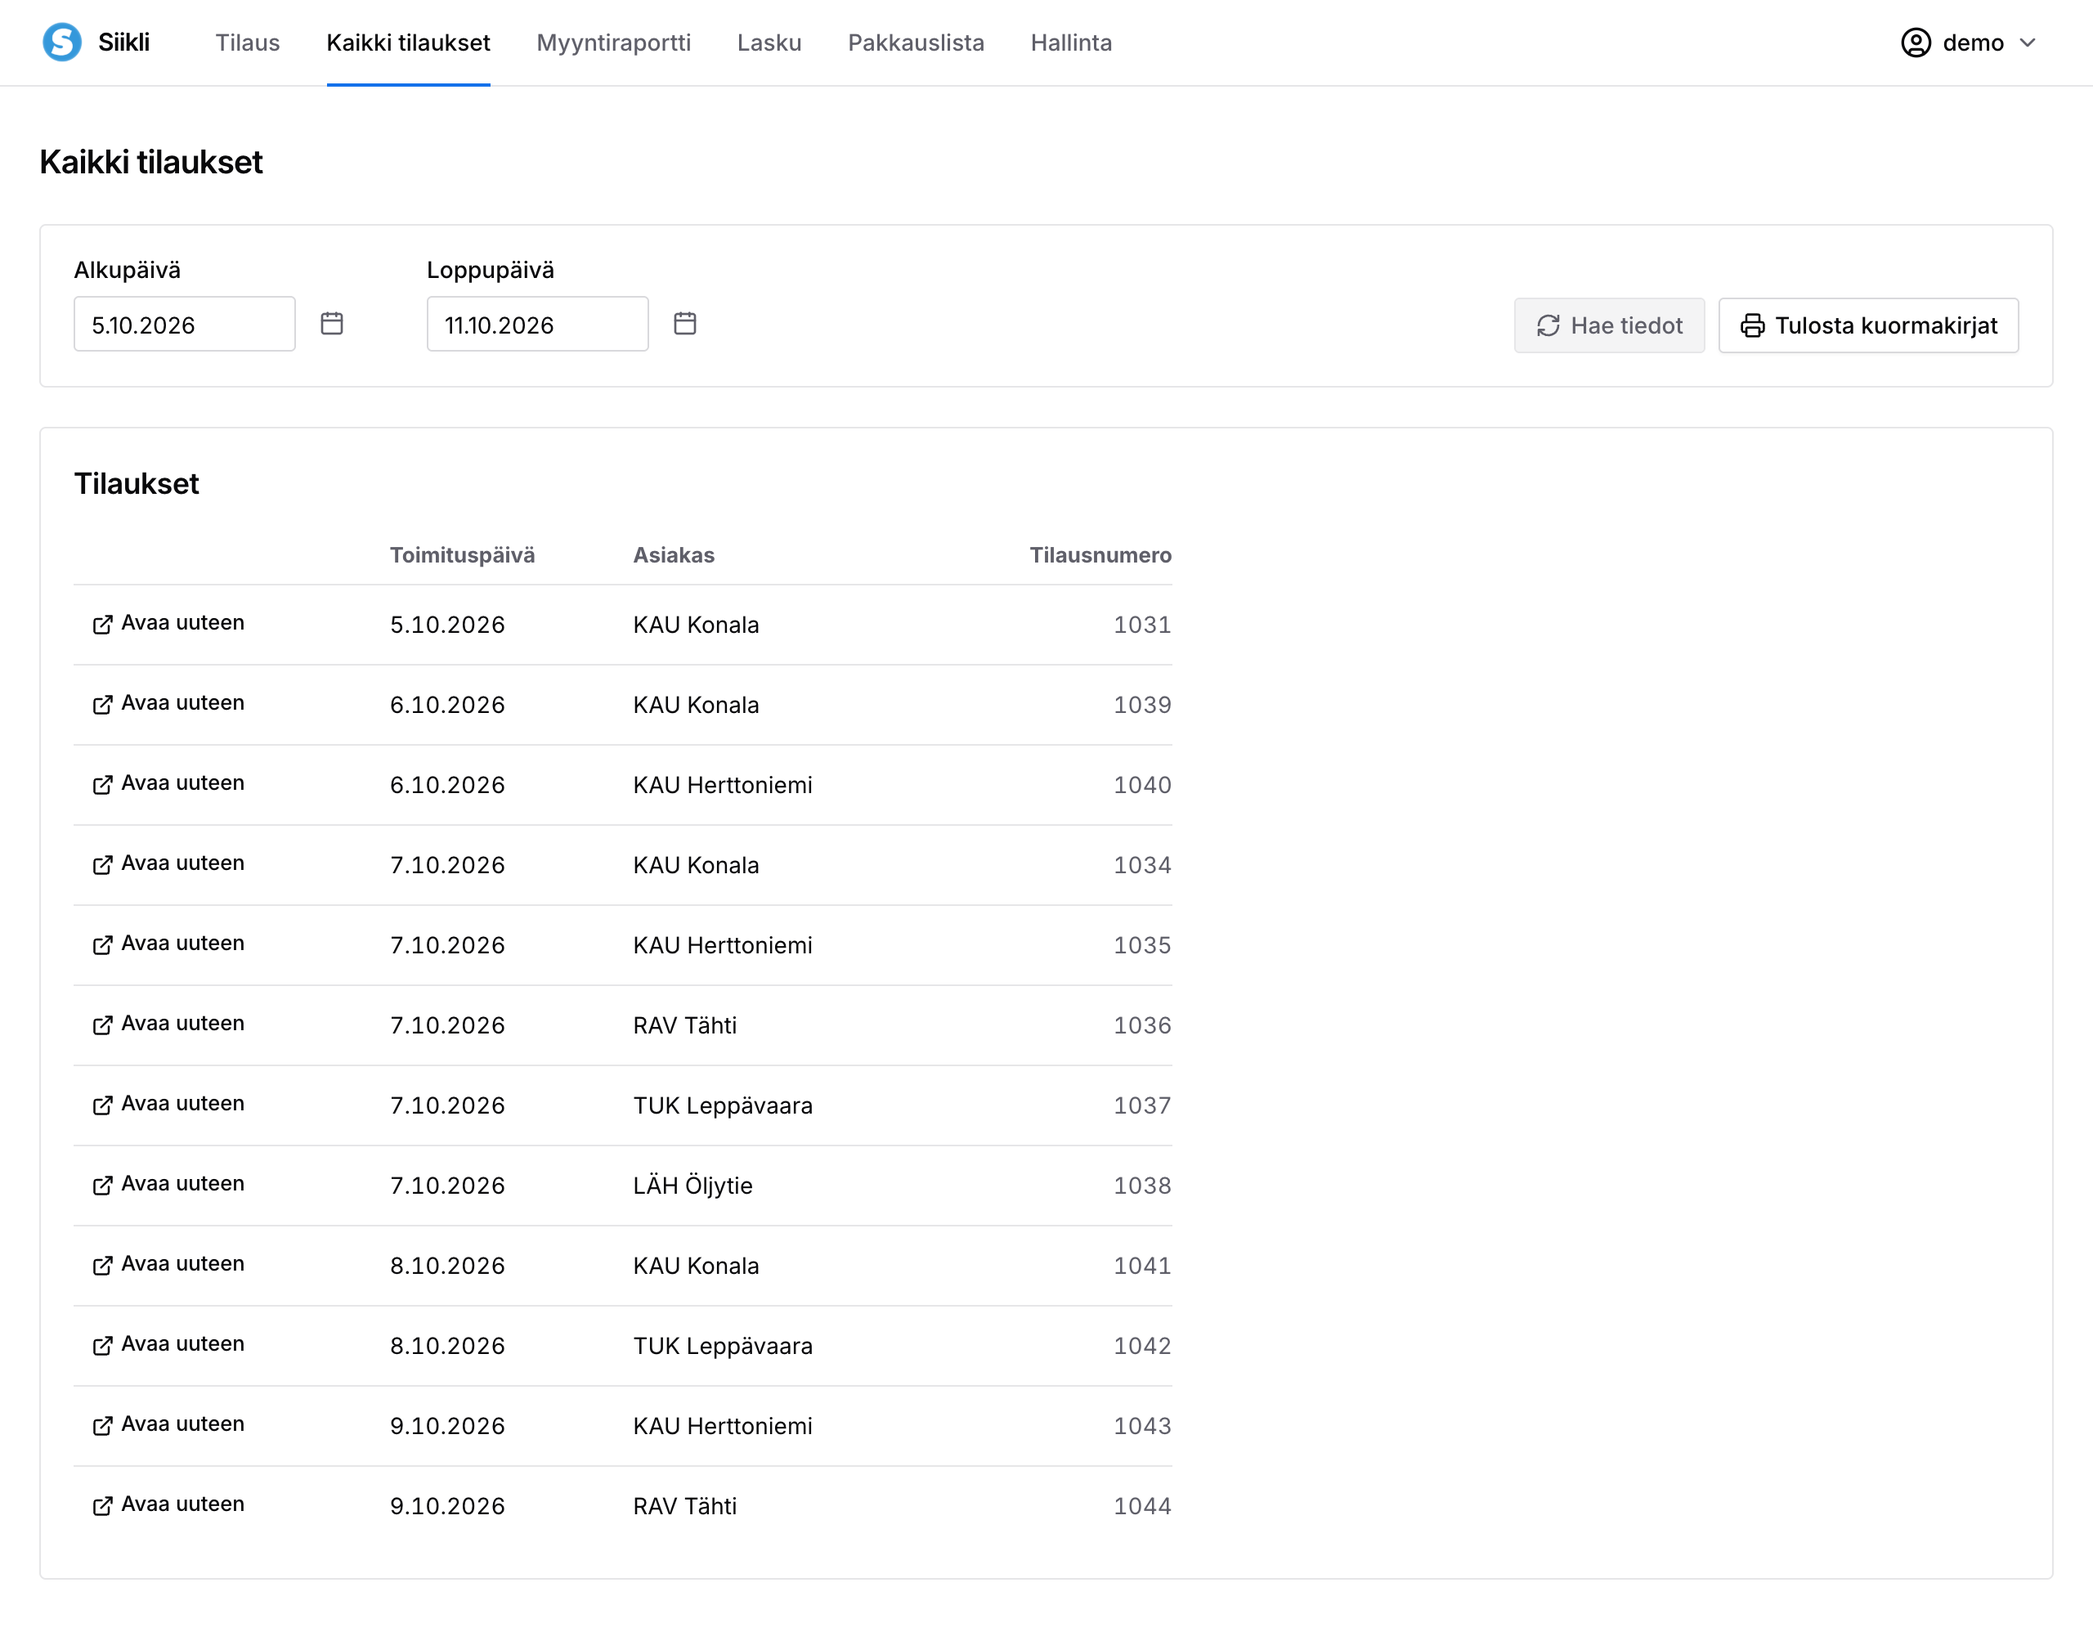
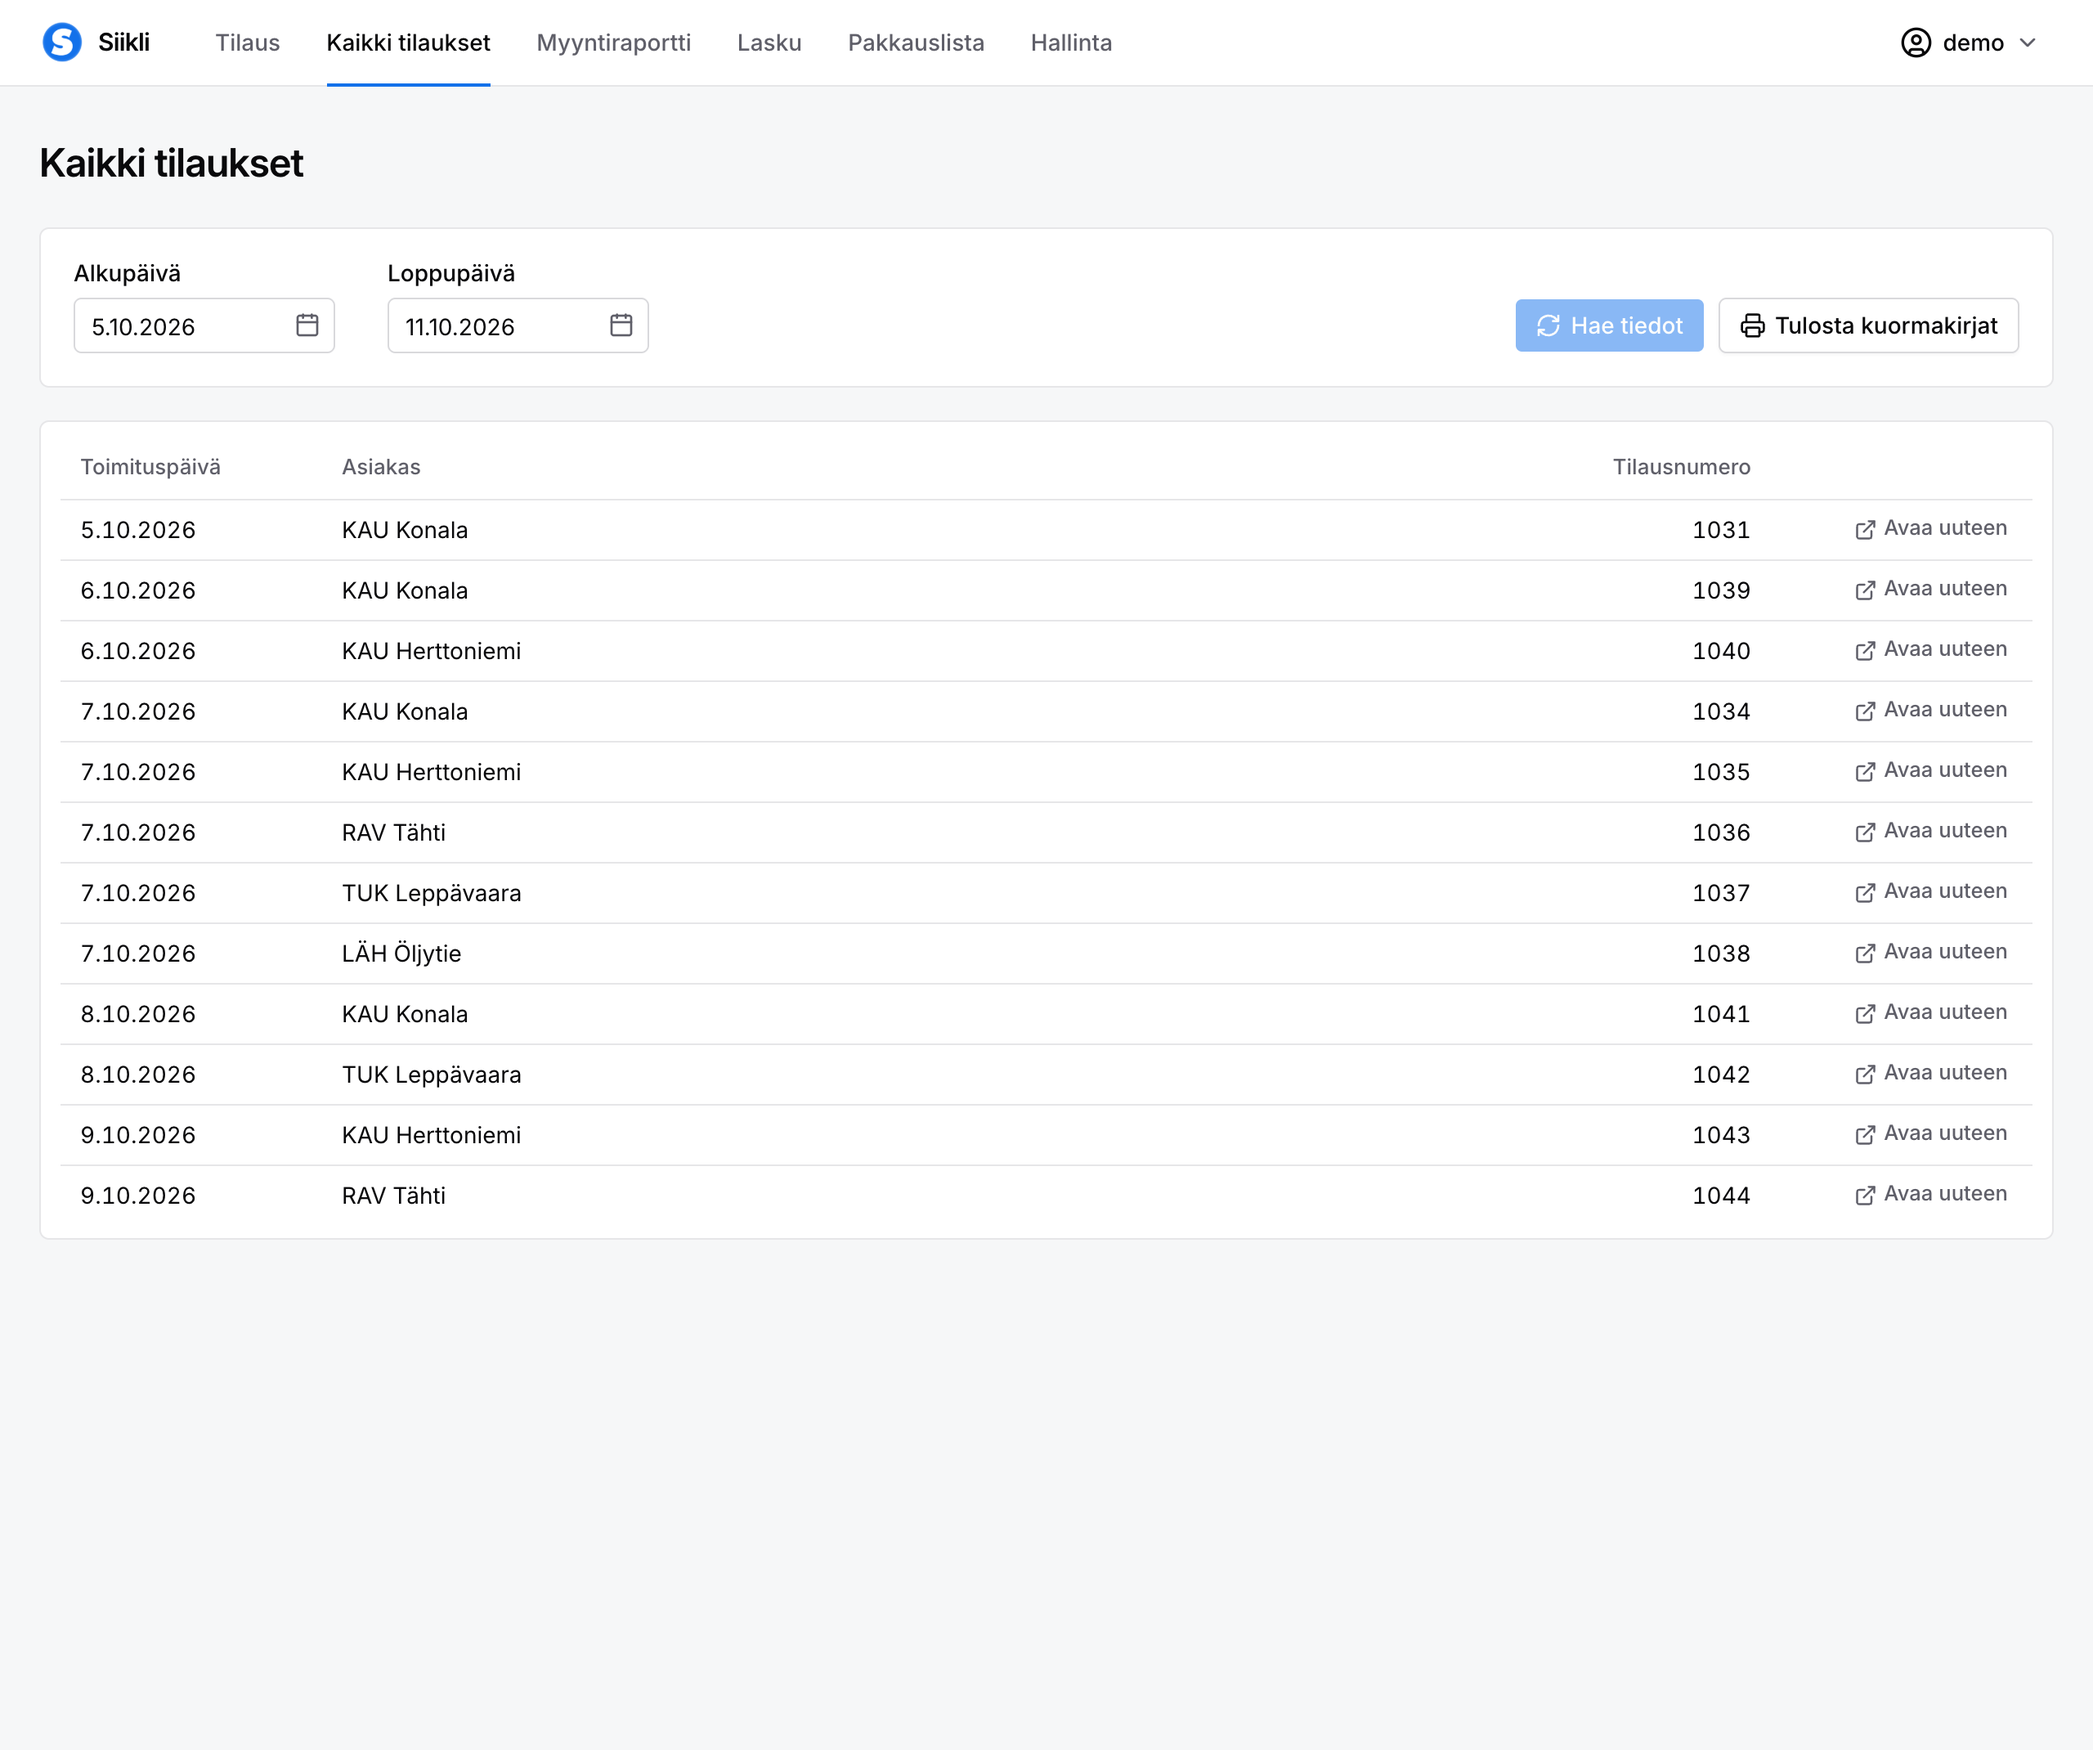
Restyle the page in the app's design A, with new screenshots
The app's look changed on 2026-11-11 (design A): a light grey page
(#f6f7f8), so the white cards and the white toolbar read as surfaces;
corners of 6 px on cards and 5 px on buttons; the logo in the azure
#1371ea. The page follows it: the grey page, the footer white as the top
bar, 5 px corners on the buttons and labels, the new logo and its glow.

The screenshots are retaken from the React release's jar with the demo
data; the order screen now shows each row's total and the order's kilos,
packages and sum, which its caption and description say. The sharing
image is redrawn from the English page.

diff --git a/style.css b/style.css
@@ -1,8 +1,9 @@
-/* The look of the Siikli app itself (since 2026-11-10): Siikli's azure,
-   #1371ea, for what can be clicked; near-black text and neutral greys; Inter
-   with its optical sizes; a white page whose cards are drawn by a hairline,
-   not by a shadow; sharp corners. The font is served from here, not from
-   Google. */
+/* The look of the Siikli app itself (design A, since 2026-11-11): Siikli's
+   azure, #1371ea, for what can be clicked, and the logo in it; near-black
+   text and neutral greys; Inter with its optical sizes; a light grey page,
+   so the white cards and the white top bar read as surfaces, the cards drawn
+   by a hairline, not by a shadow; corners of 6 px on cards, 5 px on buttons.
+   The font is served from here, not from Google. */
 
 @font-face {
   font-family: "Inter";
@@ -26,10 +27,10 @@
   --primary-dark: #005ed5;   /* a button under the pointer: darker, not paler */
   --primary-tint: #edf6ff;   /* behind icons and the notes */
   --glow: rgba(19, 113, 234, 0.12);
-  --bg: #ffffff;
+  --bg: #f6f7f8;             /* the app's page: oklch(0.975 0.0025 264) */
   --surface: #ffffff;
   --window-bar: #f4f4f5;
-  --footer: #fafafa;
+  --footer: #ffffff;         /* white, as the top bar */
   --text: #09090b;           /* near-black and neutral greys, as in the app */
   --muted: #5f5f69;
   --line: #e6e6e8;           /* the app's hairline */
@@ -37,8 +38,9 @@
   --on-primary-muted: rgba(255, 255, 255, 0.85);
   --radius: 6px;
   --radius-large: 8px;
+  --radius-control: 5px;     /* buttons, the language switch, small labels */
   /* A card's edge is a hairline (the first shadow), with barely a shadow
-     under it: crisp on the white page, not floating in a haze */
+     under it: crisp on the grey page, not floating in a haze */
   --shadow: 0 0 0 1px var(--line), 0 1px 2px rgba(9, 9, 11, 0.04);
   --shadow-raised: 0 0 0 1px var(--line), 0 2px 4px rgba(9, 9, 11, 0.04), 0 12px 32px rgba(9, 9, 11, 0.08);
   --shadow-hero: 0 0 0 1px var(--line), 0 32px 72px -24px rgba(19, 113, 234, 0.28);
@@ -92,7 +94,7 @@ a { color: var(--primary); }
   font-weight: 500;
   text-decoration: none;
   padding: 8px 14px;
-  border-radius: 4px;
+  border-radius: var(--radius-control);
   transition: background-color 0.2s, color 0.2s;
 }
 .sections a:hover,
@@ -106,7 +108,7 @@ a { color: var(--primary); }
 .get-started {
   margin-left: 12px;
   padding: 7px 16px;
-  border-radius: 4px;
+  border-radius: var(--radius-control);
   background: var(--primary);
   color: var(--on-primary);
   font-size: 14px;
@@ -124,7 +126,7 @@ a { color: var(--primary); }
   flex-shrink: 0;
   margin-left: 12px;
   border: 1px solid var(--line);
-  border-radius: 4px;
+  border-radius: var(--radius-control);
   overflow: hidden;
 }
 .lang a {
@@ -166,7 +168,7 @@ a { color: var(--primary); }
 .mark {
   display: block;
   margin: 0 auto 24px;
-  filter: drop-shadow(0 6px 14px rgba(33, 150, 243, 0.3));
+  filter: drop-shadow(0 6px 14px rgba(19, 113, 234, 0.3));
 }
 .hero h1 {
   margin: 0 0 16px;
@@ -200,7 +202,7 @@ a { color: var(--primary); }
   gap: 10px;
   min-height: 44px;
   padding: 10px 22px;
-  border-radius: 4px;
+  border-radius: var(--radius-control);
   font-size: 15px;
   font-weight: 600;
   text-decoration: none;
@@ -255,7 +257,7 @@ h2:has(+ .note) { margin-bottom: 20px; }
   width: fit-content;
   margin: 0 auto 44px;
   padding: 4px 12px;
-  border-radius: 4px;
+  border-radius: var(--radius-control);
   background: var(--primary-tint);
   color: var(--primary-dark);
   font-size: 14px;
@@ -315,7 +317,7 @@ h2:has(+ .note) { margin-bottom: 20px; }
 .dots i { width: 10px; height: 10px; border-radius: 50%; background: rgba(0, 0, 0, 0.14); }
 .url {
   padding: 0 40px;
-  border-radius: 4px;
+  border-radius: var(--radius-control);
   background: var(--surface);
   color: var(--muted);
   font-size: 12px;
@@ -397,7 +399,7 @@ h2:has(+ .note) { margin-bottom: 20px; }
   width: fit-content;
   margin-bottom: 20px;
   padding: 4px 12px;
-  border-radius: 4px;
+  border-radius: var(--radius-control);
   background: var(--primary-tint);
   color: var(--primary-dark);
   font-size: 14px;

diff --git a/en/index.html b/en/index.html
@@ -56,9 +56,9 @@
     <figure class="shot hero-shot">
       <a class="window" href="../images/order.png" data-lightbox>
         <span class="window-bar" aria-hidden="true"><span class="dots"><i></i><i></i><i></i></span><span class="url">app.siikli.fi</span></span>
-        <img src="../images/order.png" alt="The order screen: a customer, a delivery date and five products with amounts, package sizes, number of packages and prices." width="1280" height="990">
+        <img src="../images/order.png" alt="The order screen: a customer, a delivery date and five products with amounts, package sizes, number of packages, prices and totals, and the order's kilos, packages and total." width="1280" height="1120">
       </a>
-      <figcaption><b>Tilaus</b> (order): products, amounts, packages and prices for one delivery.</figcaption>
+      <figcaption><b>Tilaus</b> (order): products, amounts, packages, prices and totals for one delivery.</figcaption>
     </figure>
 
     <section id="why">
@@ -90,7 +90,7 @@
         <figure class="shot">
           <a class="window" href="../images/packing-list.png" data-lightbox>
             <span class="window-bar" aria-hidden="true"><span class="dots"><i></i><i></i><i></i></span></span>
-            <img src="../images/packing-list.png" alt="The packing list for one day by product, with packages and kilograms per product and totals by variety." loading="lazy" width="1280" height="1174">
+            <img src="../images/packing-list.png" alt="The packing list for one day by product, with packages and kilograms per product and totals by variety." loading="lazy" width="1280" height="1120">
           </a>
           <figcaption>
             <h3>Packing lists</h3>
@@ -100,7 +100,7 @@
         <figure class="shot">
           <a class="window" href="../images/invoice.png" data-lightbox>
             <span class="window-bar" aria-hidden="true"><span class="dots"><i></i><i></i><i></i></span></span>
-            <img src="../images/invoice.png" alt="An invoice for one customer for October: receiver, payment terms, totals with and without VAT." loading="lazy" width="1280" height="1594">
+            <img src="../images/invoice.png" alt="An invoice for one customer for October: receiver, payment terms, totals with and without VAT." loading="lazy" width="1280" height="1568">
           </a>
           <figcaption>
             <h3>Invoices</h3>

diff --git a/index.html b/index.html
@@ -56,9 +56,9 @@
     <figure class="shot hero-shot">
       <a class="window" href="images/order.png" data-lightbox>
         <span class="window-bar" aria-hidden="true"><span class="dots"><i></i><i></i><i></i></span><span class="url">app.siikli.fi</span></span>
-        <img src="images/order.png" alt="Tilausnäkymä: asiakas, toimituspäivä ja viisi tuotetta määrineen, pakkauskokoineen, pakkausmäärineen ja hintoineen." width="1280" height="990">
+        <img src="images/order.png" alt="Tilausnäkymä: asiakas, toimituspäivä ja viisi tuotetta määrineen, pakkauskokoineen, pakkausmäärineen, hintoineen ja summineen sekä tilauksen kilot, pakkaukset ja summa." width="1280" height="1120">
       </a>
-      <figcaption><b>Tilaus</b>: yhden toimituksen tuotteet, määrät, pakkaukset ja hinnat.</figcaption>
+      <figcaption><b>Tilaus</b>: yhden toimituksen tuotteet, määrät, pakkaukset, hinnat ja summat.</figcaption>
     </figure>
 
     <section id="why">
@@ -88,7 +88,7 @@
         <figure class="shot">
           <a class="window" href="images/packing-list.png" data-lightbox>
             <span class="window-bar" aria-hidden="true"><span class="dots"><i></i><i></i><i></i></span></span>
-            <img src="images/packing-list.png" alt="Yhden päivän tuotekohtainen pakkauslista: pakkaukset ja kilot tuotteittain sekä yhteismäärät lajikkeittain." loading="lazy" width="1280" height="1174">
+            <img src="images/packing-list.png" alt="Yhden päivän tuotekohtainen pakkauslista: pakkaukset ja kilot tuotteittain sekä yhteismäärät lajikkeittain." loading="lazy" width="1280" height="1120">
           </a>
           <figcaption>
             <h3>Pakkauslistat</h3>
@@ -98,7 +98,7 @@
         <figure class="shot">
           <a class="window" href="images/invoice.png" data-lightbox>
             <span class="window-bar" aria-hidden="true"><span class="dots"><i></i><i></i><i></i></span></span>
-            <img src="images/invoice.png" alt="Yhden asiakkaan lasku lokakuulta: laskun saaja, maksuehdot sekä summat verottomina ja verollisina." loading="lazy" width="1280" height="1594">
+            <img src="images/invoice.png" alt="Yhden asiakkaan lasku lokakuulta: laskun saaja, maksuehdot sekä summat verottomina ja verollisina." loading="lazy" width="1280" height="1568">
           </a>
           <figcaption>
             <h3>Laskut</h3>
